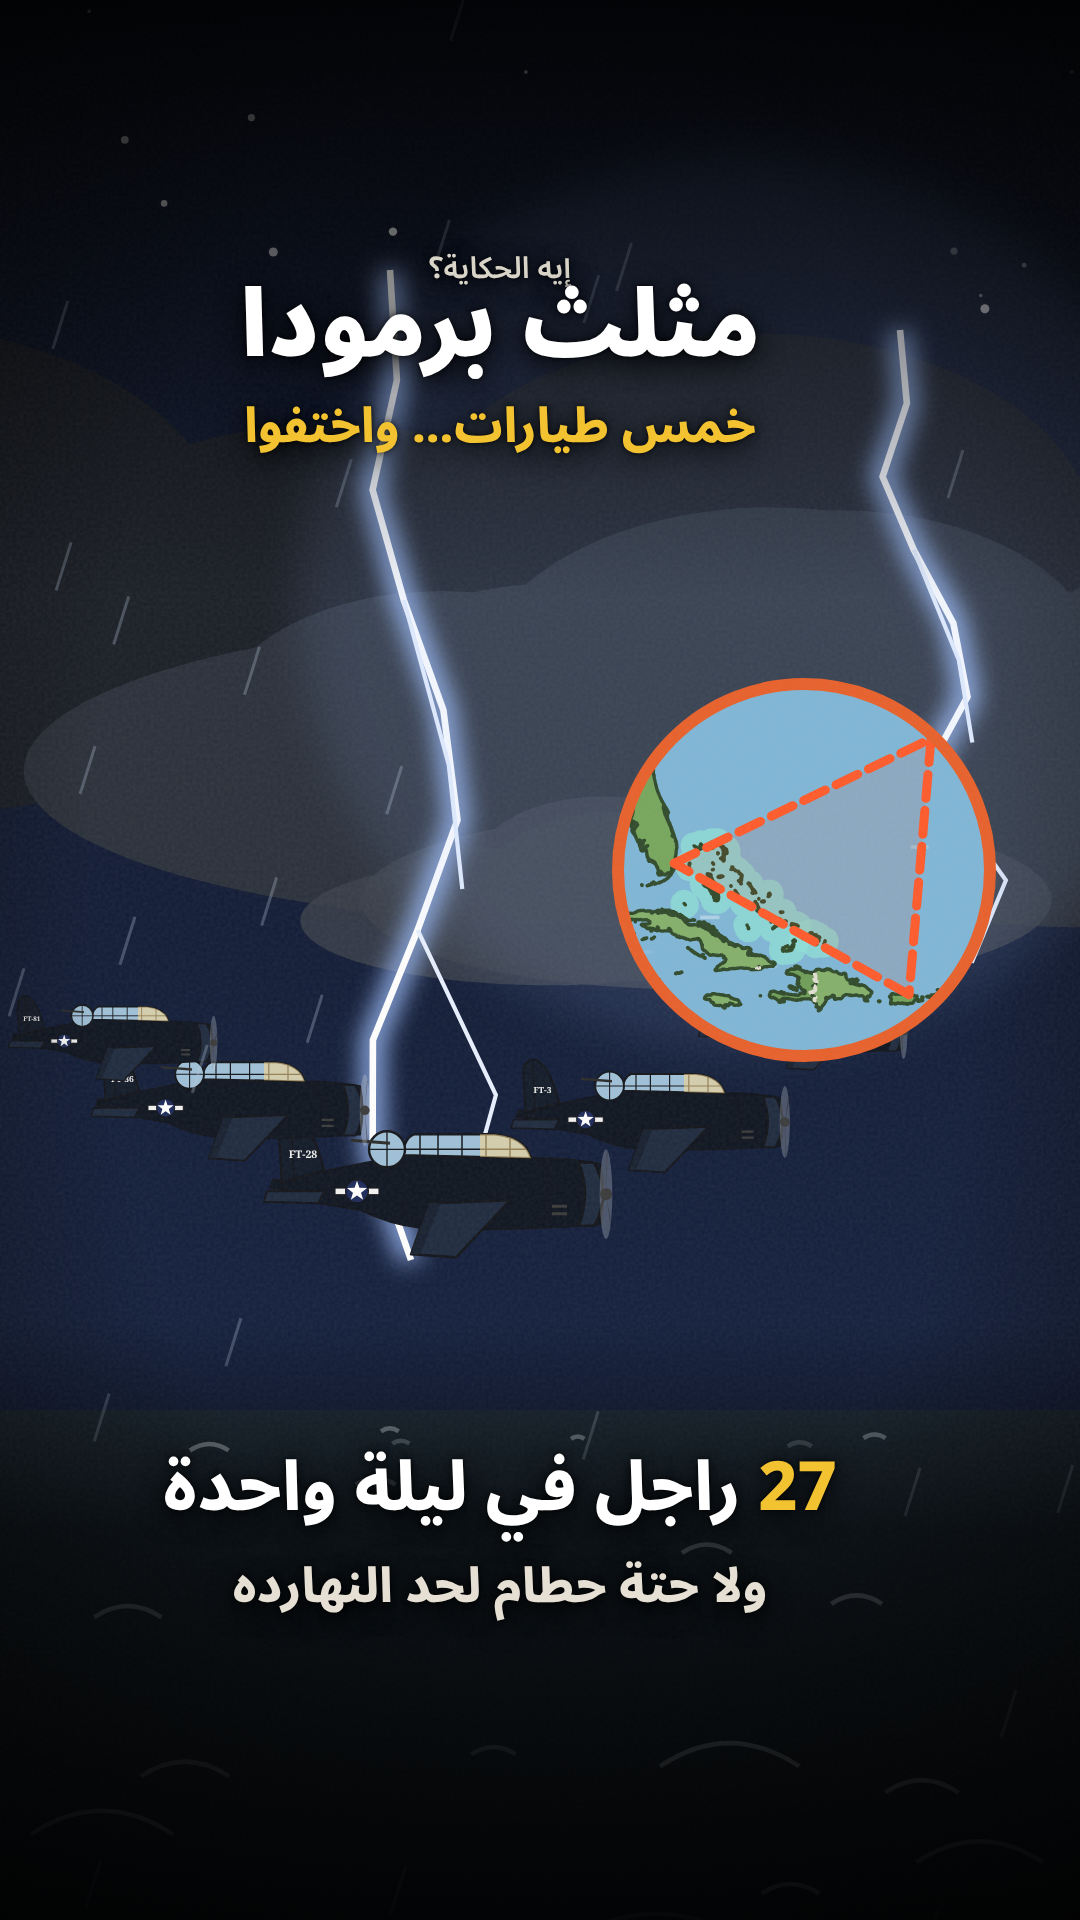
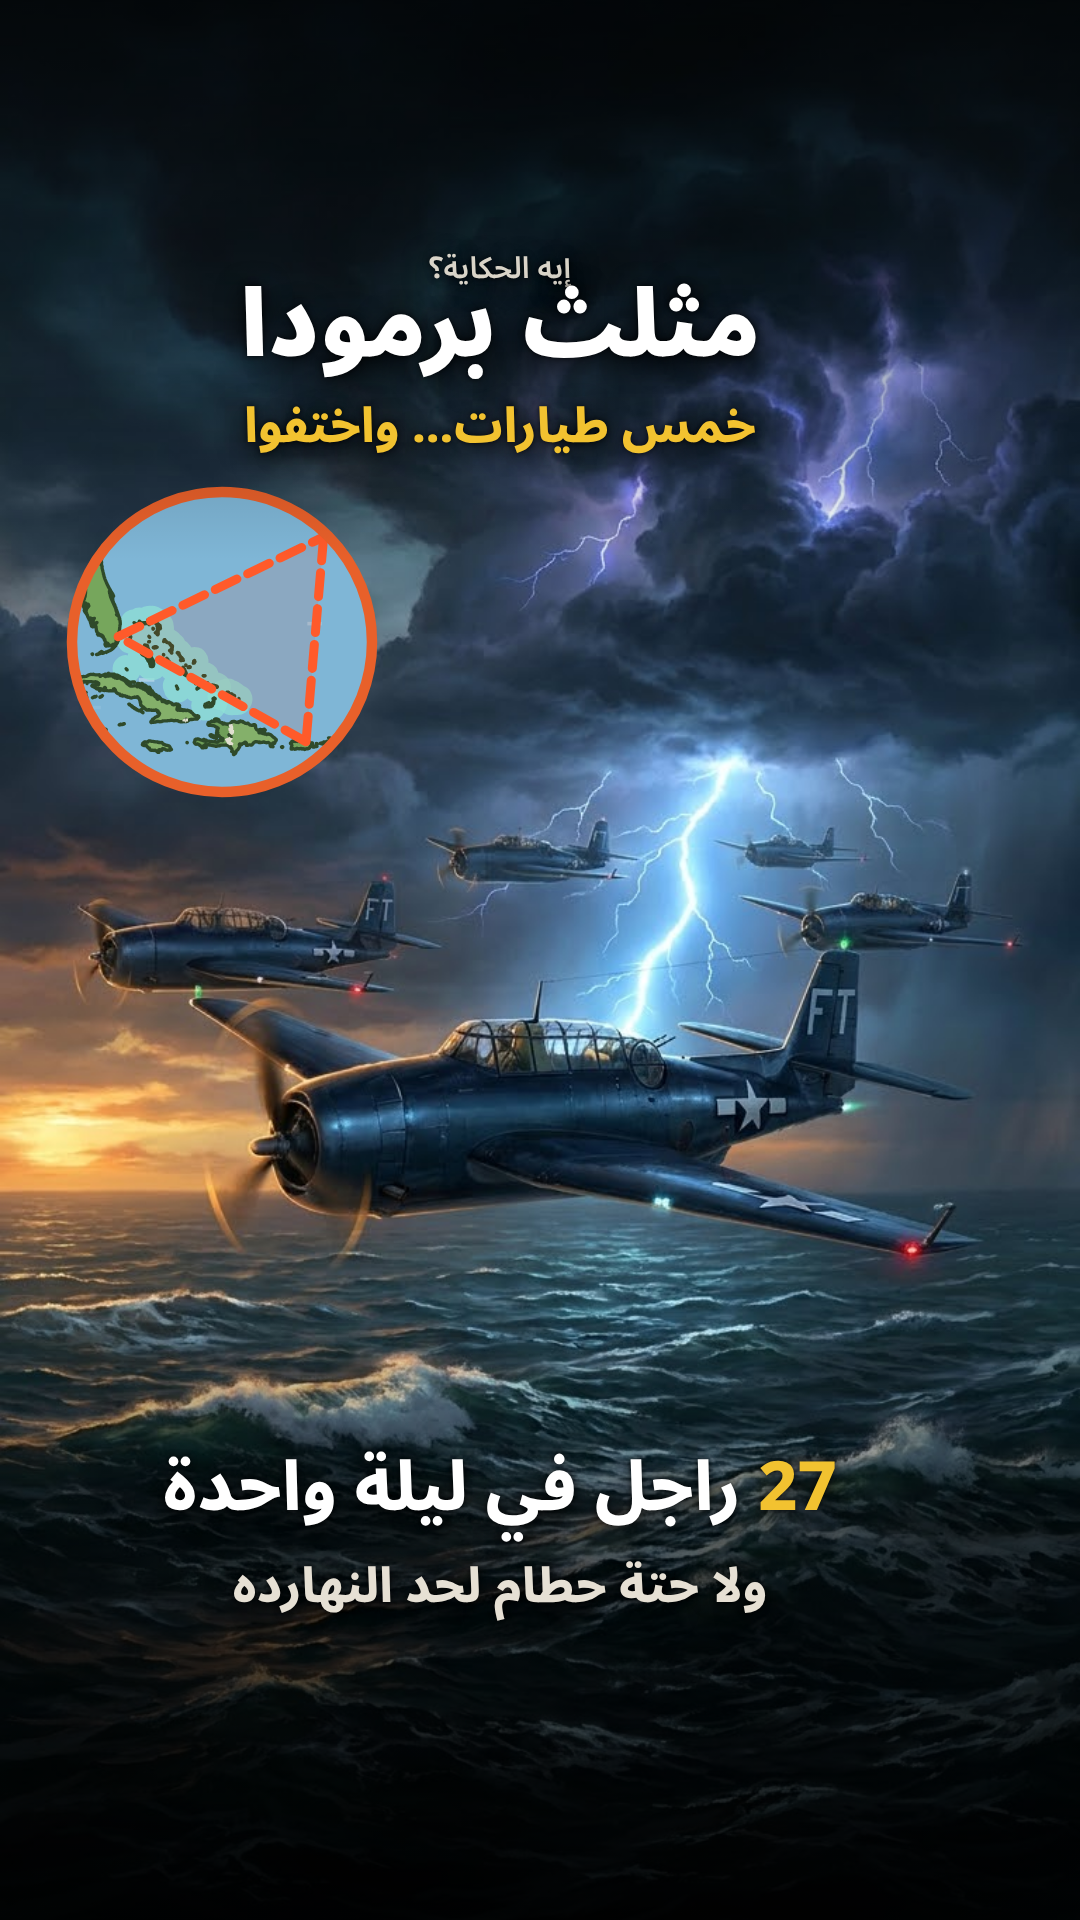
Bermuda cover on the user's AI Studio painting, real map inset upper left
Claude-Session: https://claude.ai/code/session_01E23g9WWZadRXBn1urSWDMD

diff --git a/brand/eh-elhekaya/cover-bermuda-tiktok.html b/brand/eh-elhekaya/cover-bermuda-tiktok.html
@@ -8,7 +8,7 @@
   .cover { position: relative; width: 540px; height: 960px; overflow: hidden; background: #0b0f18; }
   .art { position: absolute; left: 0; top: 0; width: 540px; height: 960px; object-fit: cover; object-position: 50% 50%; }
   #art { position: absolute; left: 0; top: 0; width: 540px; height: 960px; }
-  .fT { position: absolute; left: 0; right: 0; top: 0; height: 300px; background: linear-gradient(rgba(0,0,0,.85), rgba(0,0,0,0)); }
+  .fT { position: absolute; left: 0; right: 0; top: 0; height: 280px; background: linear-gradient(rgba(0,0,0,.7), rgba(0,0,0,0)); }
   .fB { position: absolute; left: 0; right: 0; bottom: 0; height: 300px; background: linear-gradient(rgba(0,0,0,0), rgba(0,0,0,.6) 35%, rgba(0,0,0,.9)); }
   .t { position: absolute; left: 24px; right: 64px; margin: 0; text-align: center; text-shadow: 0 3px 14px rgba(0,0,0,.9), 0 0 3px rgba(0,0,0,.8); }
 </style></head><body>
@@ -67,7 +67,7 @@
 <script>
   (function () { var P = window.__parts, t = 84.43, s = "";
     // inset: the real map with the triangle, ringed in orange
-    s += '<clipPath id="ins"><circle cx="268" cy="290" r="62"/></clipPath><g clip-path="url(#ins)"><g transform="translate(88 -10)">' + P.mapView(t, -72.4, 25.4, .25, { draw: function (mp, sw) { return P.tri3(mp, sw, 1, t); } }) + '</g></g><circle cx="268" cy="290" r="62" fill="none" stroke="#e8602a" stroke-width="4"/>';
+    s += '<clipPath id="ins"><circle cx="74" cy="214" r="50"/></clipPath><g clip-path="url(#ins)"><g transform="translate(-106 -86)">' + P.mapView(t, -72.4, 25.4, .2, { draw: function (mp, sw) { return P.tri3(mp, sw, 1, t); } }) + '</g></g><circle cx="74" cy="214" r="50" fill="none" stroke="#e8602a" stroke-width="3.5"/>';
     
     document.getElementById("art").innerHTML = s; })();
 </script>
